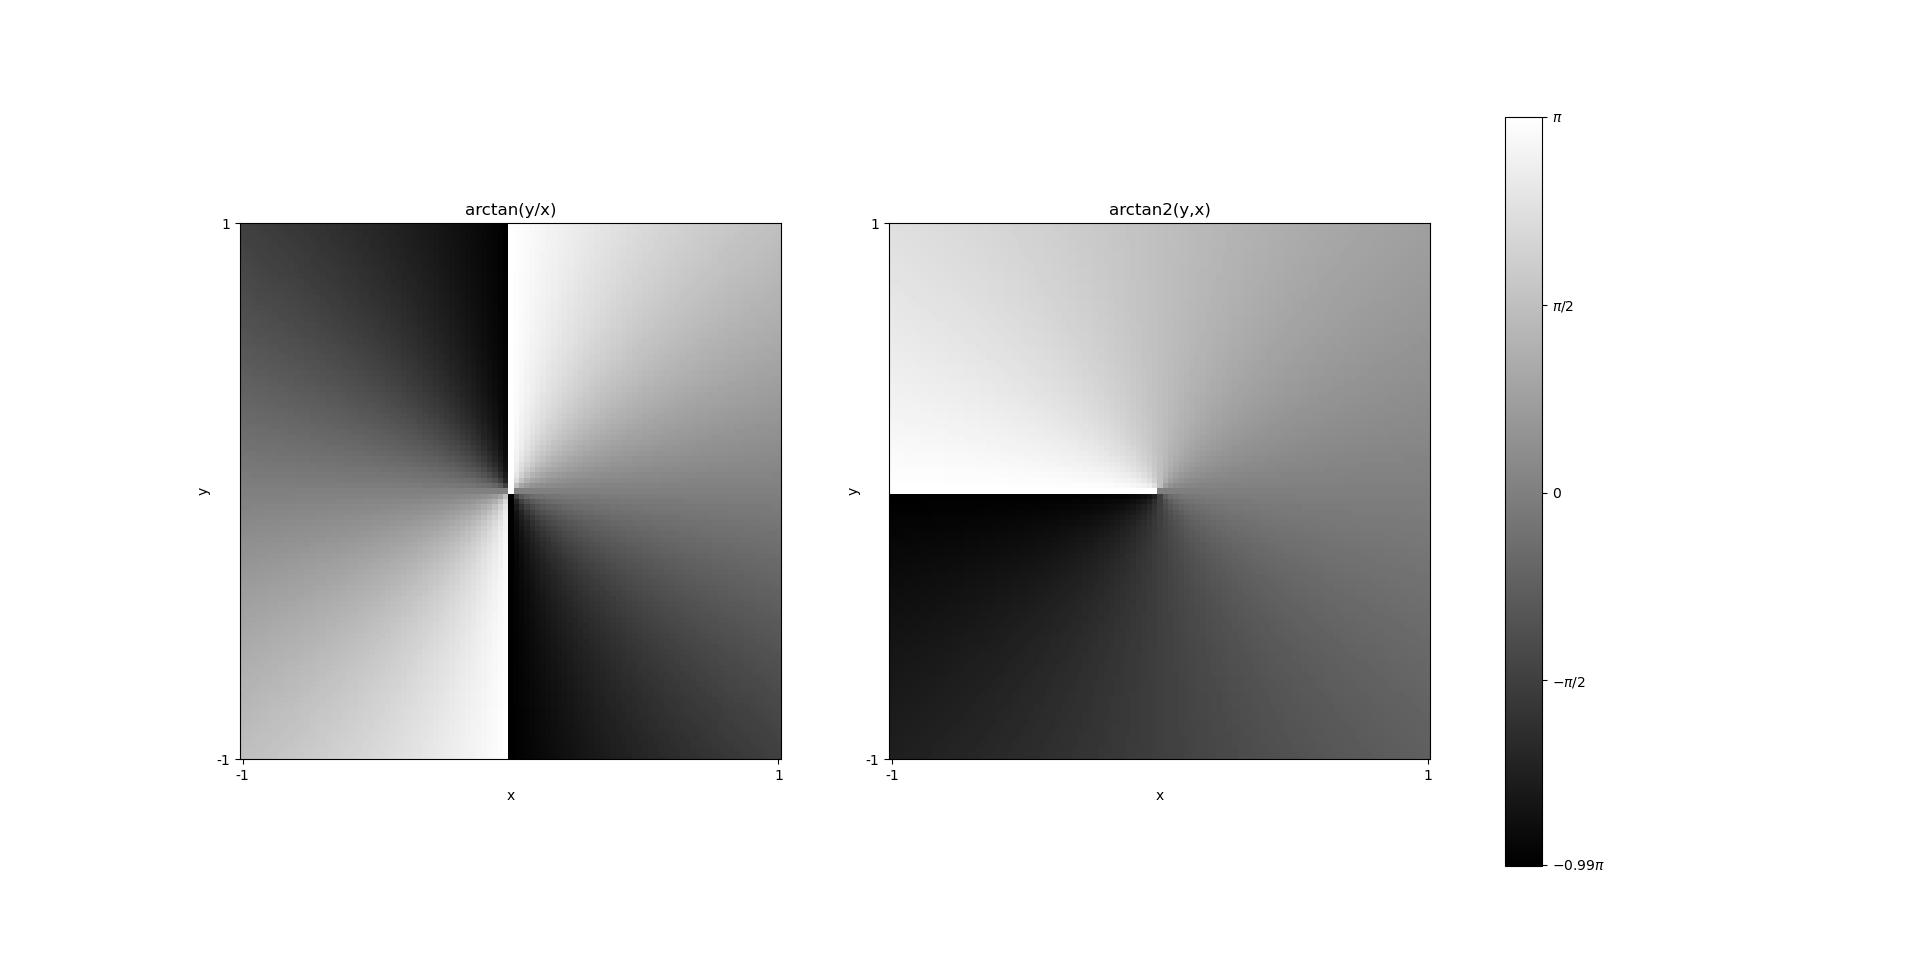
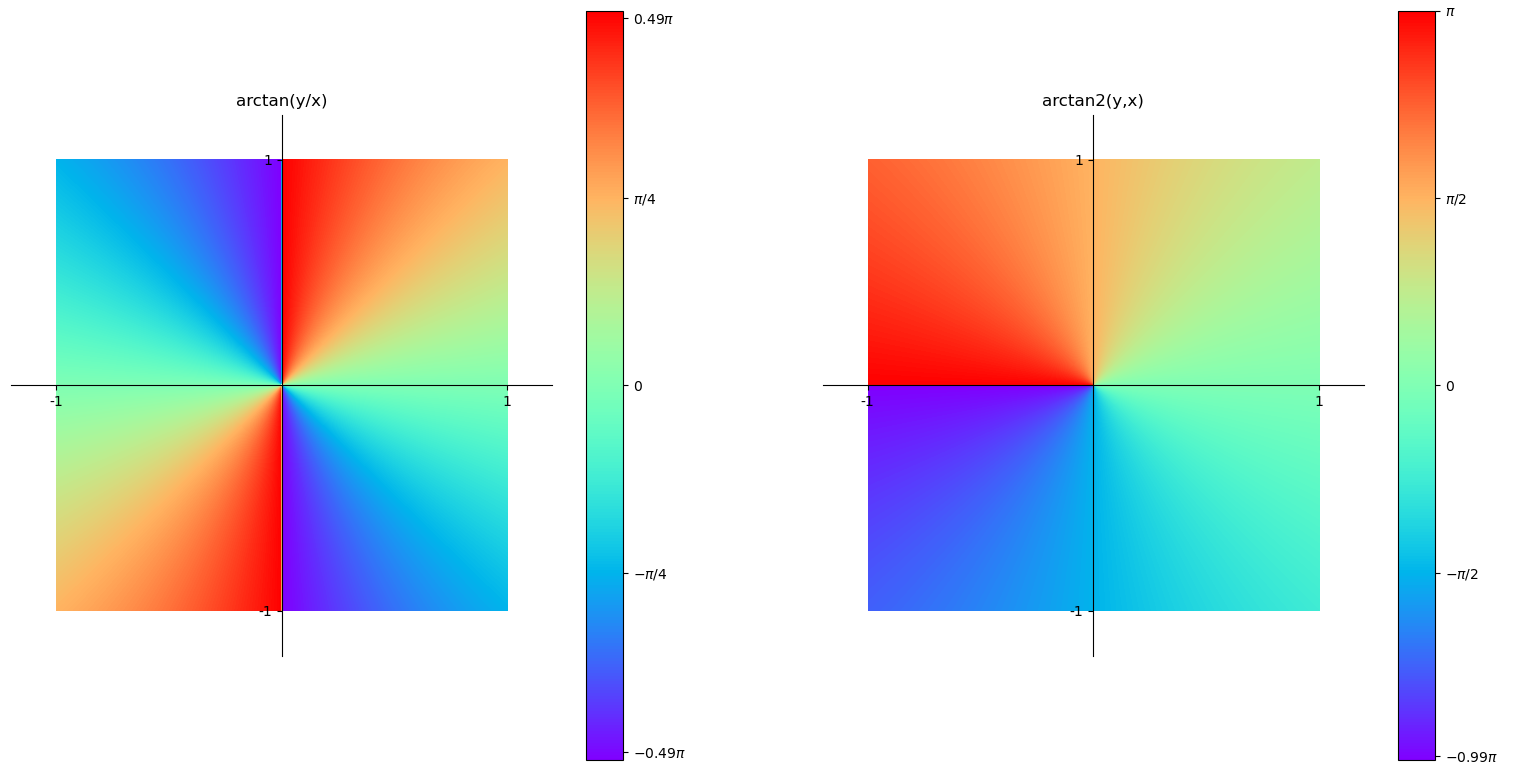
删除了错误

diff --git a/origin ver/a1/py.py b/origin ver/a1/py.py
@@ -1,25 +1,38 @@
 import matplotlib.pyplot as plt
 import numpy as np
 
-start, end, num = -1, 1, 100
-var = np.linspace(start, end, num + 1)  # 变量区间[-1,1]，在这之中取101个数
+start, end, num = -1, 1, 1000
+var = np.linspace(start, end, num + 1)  # 变量区间[-1,1]，在这之中取1001个数
 x, y = np.meshgrid(var, var)
-# x, y的shape都是(101,101)，表示这101x101个点的二维坐标
-axes = (plt.subplot(1, 2, 1), plt.subplot(1, 2, 2))
-z = (np.arctan(y / x) / np.pi, np.arctan2(y, x) / np.pi)
-titles = ('arctan(y/x)', 'arctan2(y,x)')
-for i, j, k in zip(axes, z, titles):
-    ai = i.imshow(j, cmap='gray')
-    i.set_ylim(0, num)  # y轴方向调整为朝上
-    i.set_xticks([0, num])  # 因为有101个点，所以取值范围是[0,100]
-    i.set_xticklabels([start, end])  # 把取值还原回[-1,1]
-    i.set_xlabel('x')
-    i.set_yticks([0, num])
-    i.set_yticklabels([start, end])
-    i.set_ylabel('y')
-    i.set_title(k)
-colorbar = plt.colorbar(ai, ax=axes)  # 共用一个colorbar
-colorbar.set_ticks([-0.99, -0.5, 0, 0.5, 1])
-colorbar.set_ticklabels(
-    [r'$-0.99\pi$', r'$-\pi/2$', '0', r'$\pi/2$', r'$\pi$'])
+# x, y的shape都是(1001,1001)，表示这1001x1001个点的二维坐标
+
+
+def plot(index, img, title, color_ticks, color_ticklabels):
+    ax = plt.subplot(1, 2, index)
+    ax.spines['right'].set_color('none')  # 调整坐标轴的位置
+    ax.spines['top'].set_color('none')
+    ax.spines['bottom'].set_position(('data', num / 2))
+    ax.spines['left'].set_position(('data', num / 2))
+    blank = num * 0.1
+    ax.set_xlim(-blank, num + blank)
+    ax.set_ylim(-blank, num + blank)  # 若不调整，y轴方向朝下
+    ax.set_xticks([0, num])  # 因为有1001个点，所以取值范围是[0,1000]
+    ax.set_xticklabels([start, end])  # 把取值还原回[-1,1]
+    ax.set_yticks([0, num])
+    ax.set_yticklabels([start, end])
+    ax.set_title(title)
+    ai = ax.imshow(img, cmap='rainbow')
+    colorbar = plt.colorbar(ai, ax=ax)
+    colorbar.set_ticks(color_ticks)
+    colorbar.set_ticklabels(color_ticklabels)
+
+
+z = np.arctan(y / x) / np.pi
+plot(1, z, 'arctan(y/x)', [-0.49, -0.25, 0, 0.25, 0.49],
+     [r'$-0.49\pi$', r'$-\pi/4$', '0', r'$\pi/4$', r'0.49$\pi$'])
+
+z = np.arctan2(y, x) / np.pi
+plot(2, z, 'arctan2(y,x)', [-0.99, -0.5, 0, 0.5, 1],
+     [r'$-0.99\pi$', r'$-\pi/2$', '0', r'$\pi/2$', r'$\pi$'])
+
 plt.show()

diff --git a/origin ver/a1/直角坐标系(xyz)转大地坐标系(BLH)近似公式的误差分析.md b/origin ver/a1/直角坐标系(xyz)转大地坐标系(BLH)近似公式的误差分析.md
@@ -1,3 +1,4 @@
+注意上式中经度$L$使用的是$arctan2$函数而非$arctan$函数。
 > $arctan$函数与$arctan2$函数的转换关系
 > $$arctan2(y,x) = \begin{cases}  
 arctan(\frac{y}{x}) & x\gt0\\
@@ -7,30 +8,46 @@ arctan(\frac{y}{x})-\pi & y\lt0,x\lt0\\
 -\frac{\pi}{2} & y\lt0,x=0\\
 undefined & y=0,x=0
 \end{cases}$$
+![img1](https://raw.githubusercontent.com/Housyou/a-some-SAR/master/origin%20ver/a1/imgs/1.png)
+> $arctan$图像显然是中心对称的，但这不符合经度的变化规律；如果将$-\pi$和$\pi$相连，就像东西经$180\degree$那样，$arctan2$函数就是连续的。
+>> $arctan$函数值域是$(-\frac{\pi}{2},\frac{\pi}{2})$，因为不存在无穷大的角；但
 ```python
 import matplotlib.pyplot as plt
 import numpy as np
 
-start, end, num = -1, 1, 100
-var = np.linspace(start, end, num + 1)  # 变量区间[-1,1]，在这之中取101个数
+start, end, num = -1, 1, 1000
+var = np.linspace(start, end, num + 1)  # 变量区间[-1,1]，在这之中取1001个数
 x, y = np.meshgrid(var, var)
-# x, y的shape都是(101,101)，表示这101x101个点的二维坐标
-axes = (plt.subplot(1, 2, 1), plt.subplot(1, 2, 2))
-z = (np.arctan(y / x) / np.pi, np.arctan2(y, x) / np.pi)
-titles = ('arctan(y/x)', 'arctan2(y,x)')
-for i, j, k in zip(axes, z, titles):
-    ai = i.imshow(j, cmap='gray')
-    i.set_ylim(0, num)  # y轴方向调整为朝上
-    i.set_xticks([0, num])  # 因为有101个点，所以取值范围是[0,100]
-    i.set_xticklabels([start, end])  # 把取值还原回[-1,1]
-    i.set_xlabel('x')
-    i.set_yticks([0, num])
-    i.set_yticklabels([start, end])
-    i.set_ylabel('y')
-    i.set_title(k)
-colorbar = plt.colorbar(ai, ax=axes)  # 共用一个colorbar
-colorbar.set_ticks([-0.99, -0.5, 0, 0.5, 1])
-colorbar.set_ticklabels(
-    [r'$-0.99\pi$', r'$-\pi/2$', '0', r'$\pi/2$', r'$\pi$'])
+# x, y的shape都是(1001,1001)，表示这1001x1001个点的二维坐标
+
+
+def plot(index, img, title, color_ticks, color_ticklabels):
+    ax = plt.subplot(1, 2, index)
+    ax.spines['right'].set_color('none')  # 调整坐标轴的位置
+    ax.spines['top'].set_color('none')
+    ax.spines['bottom'].set_position(('data', num / 2))
+    ax.spines['left'].set_position(('data', num / 2))
+    blank = num * 0.1
+    ax.set_xlim(-blank, num + blank)
+    ax.set_ylim(-blank, num + blank)  # 若不调整，y轴方向朝下
+    ax.set_xticks([0, num])  # 因为有1001个点，所以取值范围是[0,1000]
+    ax.set_xticklabels([start, end])  # 把取值还原回[-1,1]
+    ax.set_yticks([0, num])
+    ax.set_yticklabels([start, end])
+    ax.set_title(title)
+    ai = ax.imshow(img, cmap='rainbow')
+    colorbar = plt.colorbar(ai, ax=ax)
+    colorbar.set_ticks(color_ticks)
+    colorbar.set_ticklabels(color_ticklabels)
+
+
+z = np.arctan(y / x) / np.pi
+plot(1, z, 'arctan(y/x)', [-0.49, -0.25, 0, 0.25, 0.49],
+     [r'$-0.49\pi$', r'$-\pi/4$', '0', r'$\pi/4$', r'0.49$\pi$'])
+
+z = np.arctan2(y, x) / np.pi
+plot(2, z, 'arctan2(y,x)', [-0.99, -0.5, 0, 0.5, 1],
+     [r'$-0.99\pi$', r'$-\pi/2$', '0', r'$\pi/2$', r'$\pi$'])
+
 plt.show()
 ```
